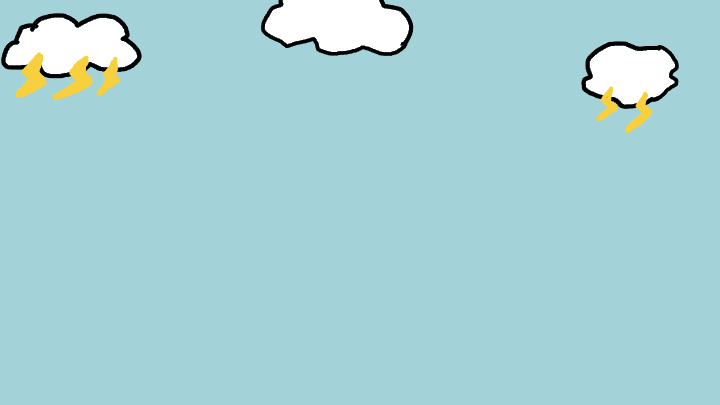
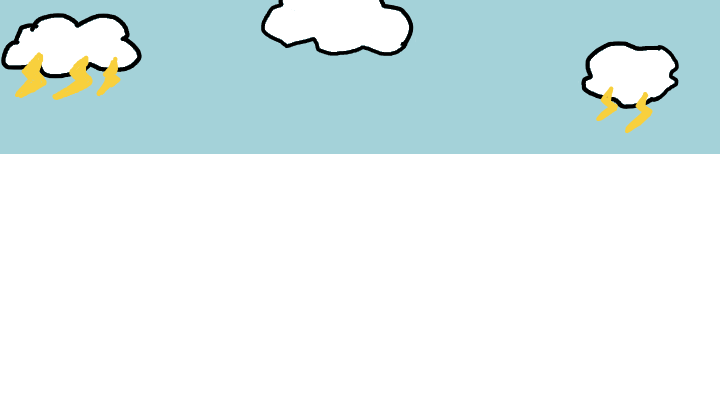
finishing

diff --git a/src/scenes/main_scene.go b/src/scenes/main_scene.go
@@ -146,7 +146,7 @@ func (g *MainScene) ExportProperties() (prop Properties) {
 func (g *MainScene) FirstLoad() {
 
 	g.isVeryBegin = true
-	g.state = inGameFinish
+	g.state = inGameMenu
 	g.loadCount = 0
 	g.loadTotal = 25
 	g.score = Score{
@@ -385,7 +385,6 @@ func (g *MainScene) FirstLoad() {
 	g.doorAnimY = 0
 	g.doorAnimActive = false
 
-	// Initialize finish animation
 	g.finishAnimY = 0
 	g.finishAnimActive = true
 	g.isFinishAnim = false
@@ -432,6 +431,14 @@ func (g *MainScene) Update() SceneId {
 
 func (g *MainScene) UpdateInGameMenu() {
 
+	dt := time.Since(g.lastFrame).Seconds()
+	g.lastFrame = time.Now()
+
+	g.skyOffset -= 20 * dt
+	if g.skyOffset <= -constants.ScreenWidth {
+		g.skyOffset += constants.ScreenWidth
+	}
+
 	if !g.garageAnimActive && g.isVeryBegin {
 		g.touchIDs = ebiten.AppendTouchIDs(g.touchIDs[:0])
 		if inpututil.IsMouseButtonJustPressed(ebiten.MouseButtonLeft) || inpututil.IsKeyJustPressed(ebiten.KeyEnter) || len(g.touchIDs) > 0 {
@@ -457,7 +464,7 @@ func (g *MainScene) UpdateInGameMenu() {
 
 	if g.doorAnimActive {
 		if g.doorAnimY == 0 {
-			g.lastFrame = time.Now().Add(-time.Duration(2.5 * float64(time.Second)))
+			// g.lastFrame = time.Now().Add(-time.Duration(500 * float64(time.Second)))
 		}
 		speed := 1.0
 		g.doorAnimY -= speed
@@ -468,6 +475,7 @@ func (g *MainScene) UpdateInGameMenu() {
 			g.BassAudio.Rewind()
 			g.GuitarAudio.Rewind()
 			g.DrumsAudio.Rewind()
+			g.lastFrame = time.Now().Add(-time.Duration(6.5 * float64(time.Second)))
 		}
 	}
 
@@ -699,8 +707,14 @@ func (g *MainScene) UpdateInGameFinish() {
 }
 
 func (g *MainScene) Reset() {
-	// change state
-	g.state = inGameMenu
+	// sound
+	g.BassAudio.Pause()
+	g.GuitarAudio.Pause()
+	g.DrumsAudio.Pause()
+	g.BassAudio.Rewind()
+	g.GuitarAudio.Rewind()
+	g.DrumsAudio.Rewind()
+
 	// scoring
 	g.scoreVal = 0
 	g.score.guitarScore.perfect = 0
@@ -713,13 +727,26 @@ func (g *MainScene) Reset() {
 	g.score.bassScore.good = 0
 	g.score.bassScore.miss = 0
 	// reset menu
+	g.isVeryBegin = true
+	g.garageAnimY = float64(constants.ScreenHeight)
+	g.garageAnimActive = false
+	g.doorAnimY = 0
+	g.doorAnimActive = false
 
 	// reset gameplay
+	err := json.Unmarshal(notes.Note_json, &g.songChart)
+	if err != nil {
+		log.Fatal(err)
+	}
+	g.currentTick = 0
 
 	// reset finish
 	g.finishAnimY = 0
 	g.finishAnimActive = true
 	g.isFinishAnim = false
+
+	// change state
+	g.state = inGameMenu
 }
 func (g *MainScene) Draw(screen *ebiten.Image) {
 
@@ -731,6 +758,8 @@ func (g *MainScene) Draw(screen *ebiten.Image) {
 		vector.StrokeLine(screen, float32(x), float32(y)+20, float32(x)+(float32(l)*float32(g.loadPercent)/100), float32(y)+20, 7, color.White, false)
 		return
 	}
+
+	screen.Fill(color.RGBA{164, 210, 217, 255})
 
 	switch g.state {
 	case inGameMenu:
@@ -745,13 +774,6 @@ func (g *MainScene) Draw(screen *ebiten.Image) {
 func (g *MainScene) DrawInGameMenu(screen *ebiten.Image) {
 
 	op := &ebiten.DrawImageOptions{}
-
-	off := g.skyOffset
-	for i := range 2 {
-		op.GeoM.Translate(off+float64(i*constants.ScreenWidth), 0)
-		screen.DrawImage(g.sky, op)
-		op.GeoM.Reset()
-	}
 
 	y := g.garageAnimY
 	op.GeoM.Reset()
@@ -806,8 +828,15 @@ func (g *MainScene) DrawInGameMenu(screen *ebiten.Image) {
 	screen.DrawImage(g.garageDoor, op)
 	op.GeoM.Reset()
 
+	off := g.skyOffset
+	for i := range 2 {
+		op.GeoM.Translate(off+float64(i*constants.ScreenWidth), 0)
+		screen.DrawImage(g.sky, op)
+		op.GeoM.Reset()
+	}
+
 	op.GeoM.Translate(0, y)
-	screen.DrawImage(g.garageAndSky, op)
+	screen.DrawImage(g.garage, op)
 	op.GeoM.Reset()
 
 	if g.isVeryBegin {
